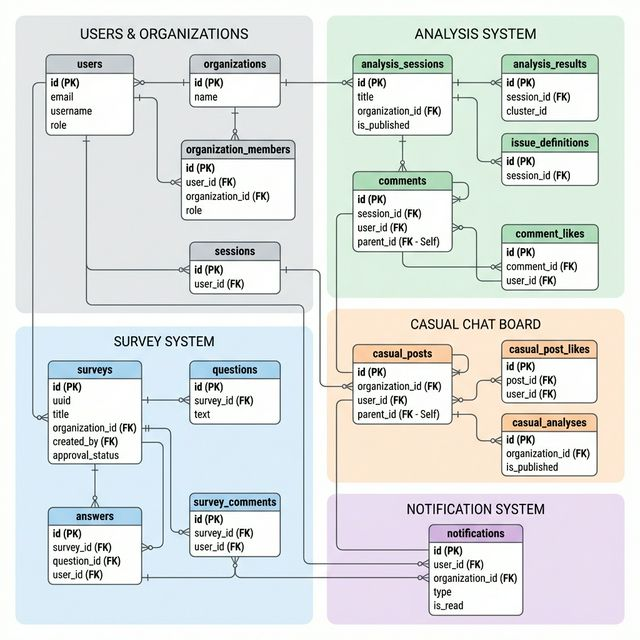
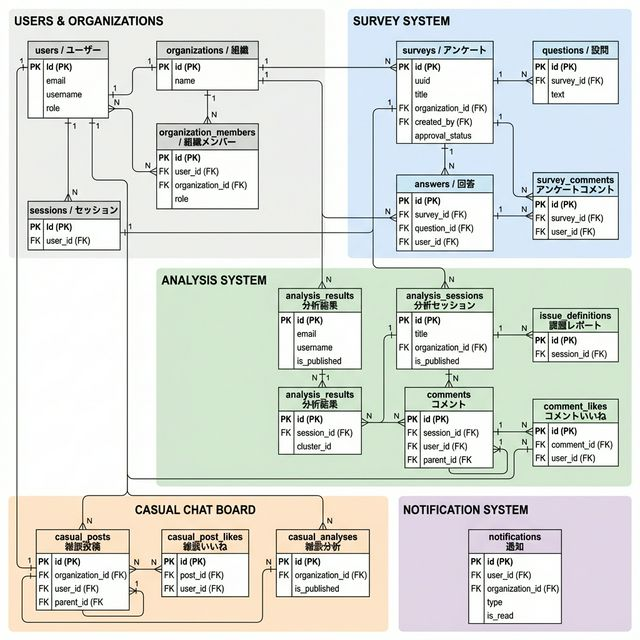
docs: データベース設計書更新 - ER図の日本語化とリレーション一覧表の追加

diff --git a/docs/database.md b/docs/database.md
@@ -21,6 +21,7 @@ erDiagram
     users ||--o{ surveys : "作成"
     surveys ||--o{ questions : "質問"
     surveys ||--o{ answers : "回答"
+    questions ||--o{ answers : "回答"
     surveys ||--o{ survey_comments : "チャット"
     users ||--o{ answers : "回答"
     users ||--o{ survey_comments : "投稿"
@@ -162,6 +163,40 @@ erDiagram
 ```
 
 </details>
+
+## リレーション一覧表
+
+システム内で定義されている全テーブル間の関係性一覧です。
+
+| 親テーブル | 子テーブル | 多重度 | 説明 |
+| :--- | :--- | :--- | :--- |
+| **users** | organization_members | 1:N | ユーザーの組織所属情報 |
+| **users** | sessions | 1:N | ログインセッション |
+| **users** | surveys | 1:N | アンケート作成者 |
+| **users** | answers | 1:N | アンケート回答 |
+| **users** | comments | 1:N | 分析セッションへのコメント |
+| **users** | comment_likes | 1:N | コメントへのいいね |
+| **users** | survey_comments | 1:N | アンケート申請チャット |
+| **users** | casual_posts | 1:N | 雑談投稿 |
+| **users** | casual_post_likes | 1:N | 雑談へのいいね |
+| **users** | notifications | 1:N | 通知 |
+| **organizations** | organization_members | 1:N | 組織メンバー |
+| **organizations** | surveys | 1:N | 組織所有のアンケート |
+| **organizations** | analysis_sessions | 1:N | 組織の分析セッション |
+| **organizations** | casual_posts | 1:N | 組織内の雑談投稿 |
+| **organizations** | casual_analyses | 1:N | 雑談分析結果 |
+| **organizations** | notifications | 1:N | 組織関連の通知 |
+| **surveys** | questions | 1:N | アンケート設問 |
+| **surveys** | answers | 1:N | アンケート回答（回答はアンケートに紐付く） |
+| **surveys** | survey_comments | 1:N | 申請チャット |
+| **questions** | answers | 1:N | 設問に対する回答（回答は設問にも紐付く） |
+| **analysis_sessions** | analysis_results | 1:N | 分析結果詳細 |
+| **analysis_sessions** | issue_definitions | 1:N | 課題レポート |
+| **analysis_sessions** | comments | 1:N | ディスカッション |
+| **comments** | comment_likes | 1:N | いいね |
+| **comments** | comments | 1:N | 返信（自己参照・階層構造） |
+| **casual_posts** | casual_post_likes | 1:N | いいね |
+| **casual_posts** | casual_posts | 1:N | 返信（自己参照・スレッド） |
 
 ## 1. ユーザー管理
 
